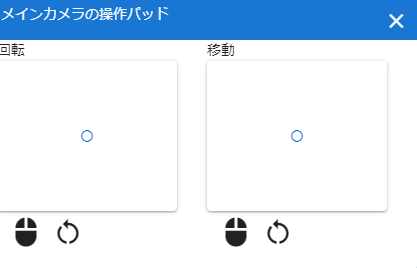
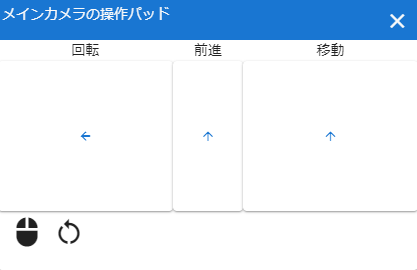
4/14夜時点

diff --git a/docs/source/man1/initial.rst b/docs/source/man1/initial.rst
@@ -19,15 +19,16 @@ VRMは3Dモデル規格・アニメーションツール界隈として世間に
 
 　対応アプリ数もMMDモデルに匹敵しているようで、今やAndroid/iOS等のスマートフォンアプリ、PCやVR機器のアプリケーションなど
 多彩に活躍の場を展開しています。
+
 　もともとVRアプリのアバターを想定して作られたそうですが、VRM単体で3Dアニメーションさせることも可能です。
 Unityというゲーム作成環境ならば個人レベルでも、Unityのアニメーション機能でもってVRMの手足を動かして
 ポージング・アニメーションさせることができます。
 
 　ただ、Unity導入・VRM読み込みライブラリの導入そしてUnityのアニメーション機能の取り扱いはなかなかに困難です。
 アニメーションを制作しやすくするVeryAnimationなどのアセットを使わなければ（使ってもなお）敷居が高いでしょう。
+
 　そういう現状を踏まえるとVRMにはソフトウェアとしてのMMDに匹敵するソフトウェアがまだまだ少ないのが一番のデメリットと
-個人的には考えています。(あったとしてもUnityやその他アニメーションツールなど、
-大げさなツールでモーションを作らなければいけなかったりするのがまた面倒だったり・・・)
+個人的には考えています。(あったとしてもUnityやその他アニメーションツールなど、大げさなツールでモーションを作らなければいけなかったりするのがまた面倒だったり・・・)
 
 　そこで本アプリでは、作者の私自身がUnityでVeryAnimationなどのアニメーション作成支援アセットを色々試して断念し、
 だったら自分が使いやすいVRM操作ライブラリ・アニメーション作成アプリを作って世間に貢献しようと思い立ったのがスタートでした。

diff --git a/docs/source/man1/screen_vpad.rst b/docs/source/man1/screen_vpad.rst
@@ -9,9 +9,11 @@ v-pad（メインカメラの操作パッド）
     :align: center
 
 
-　マウスの代わりにメインカメラの映像を操作できる仮想マウスパッドです。四角のパネル内を上下左右にスワイプ（マウスでドラッグ）するとそのとおりにWebGL画面が動きます。操作の長さにより回転量・移動量は決まりま
+　マウスの代わりにメインカメラの映像を操作できる仮想マウスパッドです。四角のパネル内を上下左右にスワイプ（マウスでドラッグ）するとそのとおりにWebGL画面が動きます。操作の長さにより回転量・移動量は決まります。
+キーボードを使わずに片手で操作したい！などという場合にもご活用いただけます。
 
 | 回転　・・・　マウスの右クリックしながら上下左右動かすことに相当。
+| 前進　・・・　マウスのホイールを動かすことに相当。
 | 移動　・・・　マウスの中クリックしながら上下左右動かすことに相当。
 
 
@@ -22,8 +24,9 @@ v-pad（メインカメラの操作パッド）
 
 |sub2| 内部カウンターをリセットする　・・・　操作しすぎたときに内部のカウントをリセットします。
 
+
 .. note::
+    | ※前進のパネルは上下のスワイプ（ドラッグ）のみ可能です。
     | ※WebGL画面は画面サイズをアップすることができますが、その分マウス操作がしづらくなる恐れがあります。そういう場合にこのv-padを使うと細かく表示を調整できるため便利です。
-    | 　キーボードを使わずに片手で操作したい！などという場合にもご活用いただけます。
 
 

diff --git a/docs/source/man1/screen_webgl.rst b/docs/source/man1/screen_webgl.rst
@@ -18,10 +18,11 @@ WebGL画面
 
 
 | 回転　・・・　マウスの右クリックあるいはCtrlキーを押しながら上下左右に移動
+| 前進　・・・　マウスのホイールを動かす。前進あるいは後退となる。
 | 移動　・・・　マウスの中クリックあるいはSPACEキーを押しながら上下左右に移動
 
 
-　マウスジェスチャーのあるブラウザですと操作が競合して正常に動作しない恐れがあります。マウスジェスチャー機能をオフにしていただくか、マニュアル4に掲載しているキーボード操作、あるいは後述のv-padをご利用ください。
+　マウスジェスチャーのあるブラウザですと操作が競合して正常に動作しない恐れがあります。マウスジェスチャー機能をオフにしていただくか、キーボード操作、あるいは後述のv-padをご利用ください。
 
 |
 

diff --git a/docs/source/man1/feature.rst b/docs/source/man1/feature.rst
@@ -41,6 +41,8 @@
 
 　本アプリで現在のバージョン（1.0.0）でできないことは次のとおりです。
 
+* VRMの各ボーンを直接回転させてのポージング（できることの2番目と同じ意味）
+* UnityやMMD・MMMのアニメーションファイル・モーションファイルなどの読み込み（本アプリでは独自形式のアニメーションです）
 * VRoidHubからVRoidを読み込むこと（VRoidSDKはC#だけのため、HTMLからはセキュリティ的に無理）
 * VRMを編集・加工して保存すること（本アプリの目的ではないため非対応）
 * その他ネット上のVRM、FBX、Objなどを読み込むこと（ウェブアプリのため制限があります）
